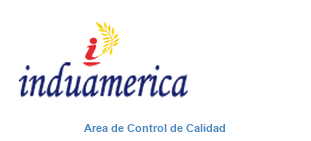
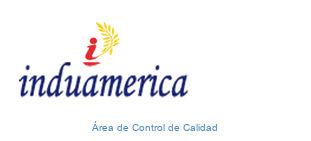
Centrar firma admin y corregir texto a Área de Control de Calidad.
Texto alineado bajo el logo con anchor mm; cache v=3.

Changed region(s): [[0.2605, 0.8511, 0.7235, 0.9362]]

diff --git a/frontend/admin.html b/frontend/admin.html
@@ -7709,7 +7709,7 @@
 
       /** Firma por entorno: admin usa firma Area de Control de Calidad; user01 firma propia. */
       const FIRMA_BY_USERNAME = {
-        admin: "/static/firma.png?v=2",
+        admin: "/static/firma.png?v=3",
         user01: "/static/firma-user01.png?v=1",
       };
 
@@ -7728,7 +7728,7 @@
         const key = String(username || "")
           .trim()
           .toLowerCase();
-        return staticAssetUrl(FIRMA_BY_USERNAME[key] || "/static/firma.png?v=2");
+        return staticAssetUrl(FIRMA_BY_USERNAME[key] || "/static/firma.png?v=3");
       }
 
       function resolveConstanciaDocumentOwner(constancia, options) {
@@ -7783,12 +7783,12 @@
             if (envOwnerProfile?.username) {
               return resolveFirmaSrcForUsername(envOwnerProfile.username);
             }
-            return staticAssetUrl("/static/firma.png?v=2");
+            return staticAssetUrl("/static/firma.png?v=3");
           }
           const me = window.QCAuth && window.QCAuth.getUser && window.QCAuth.getUser();
           if (me && me.username) return resolveFirmaSrcForUsername(me.username);
         } catch (e) {}
-        return staticAssetUrl("/static/firma.png?v=2");
+        return staticAssetUrl("/static/firma.png?v=3");
       }
 
       function getActiveConstanciaUsername() {

diff --git a/frontend/constancia-builder.js b/frontend/constancia-builder.js
@@ -22,7 +22,7 @@
 
 /** Firma por entorno: admin usa firma Area de Control de Calidad; user01 firma propia. */
       const FIRMA_BY_USERNAME = {
-        admin: "/static/firma.png?v=2",
+        admin: "/static/firma.png?v=3",
         user01: "/static/firma-user01.png?v=1",
       };
 
@@ -41,7 +41,7 @@
         const key = String(username || "")
           .trim()
           .toLowerCase();
-        return staticAssetUrl(FIRMA_BY_USERNAME[key] || "/static/firma.png?v=2");
+        return staticAssetUrl(FIRMA_BY_USERNAME[key] || "/static/firma.png?v=3");
       }
 
       function resolveConstanciaDocumentOwner(constancia, options) {
@@ -96,12 +96,12 @@
             if (envOwnerProfile?.username) {
               return resolveFirmaSrcForUsername(envOwnerProfile.username);
             }
-            return staticAssetUrl("/static/firma.png?v=2");
+            return staticAssetUrl("/static/firma.png?v=3");
           }
           const me = window.QCAuth && window.QCAuth.getUser && window.QCAuth.getUser();
           if (me && me.username) return resolveFirmaSrcForUsername(me.username);
         } catch (e) {}
-        return staticAssetUrl("/static/firma.png?v=2");
+        return staticAssetUrl("/static/firma.png?v=3");
       }
 
       function getActiveConstanciaUsername() {

diff --git a/scripts/build_firma_admin.py b/scripts/build_firma_admin.py
@@ -17,29 +17,26 @@ draw = ImageDraw.Draw(img)
 y0, y1 = 114, h
 draw.rectangle((0, y0, w, y1), fill=(255, 255, 255, 255))
 
-text = "Area de Control de Calidad"
+text = "Área de Control de Calidad"
 color = (75, 136, 192, 255)
 
 font = None
 for fp in (
-    r"C:\Windows\Fonts\arialbd.ttf",
     r"C:\Windows\Fonts\arial.ttf",
     r"C:\Windows\Fonts\segoeui.ttf",
+    r"C:\Windows\Fonts\arialbd.ttf",
 ):
     try:
-        font = ImageFont.truetype(fp, 11)
+        font = ImageFont.truetype(fp, 10)
         break
     except OSError:
         pass
 if font is None:
     font = ImageFont.load_default()
 
-bbox = draw.textbbox((0, 0), text, font=font)
-tw = bbox[2] - bbox[0]
-th = bbox[3] - bbox[1]
-x = (w - tw) // 2
-y = y0 + ((y1 - y0) - th) // 2 - 1
-draw.text((x, y), text, fill=color, font=font)
+center_x = w // 2
+center_y = y0 + (y1 - y0) // 2
+draw.text((center_x, center_y), text, fill=color, font=font, anchor="mm")
 
 img.save(out, format="PNG")
 print(f"saved {out} ({w}x{h})")
